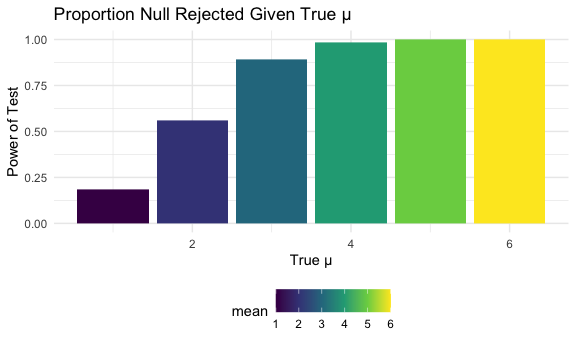
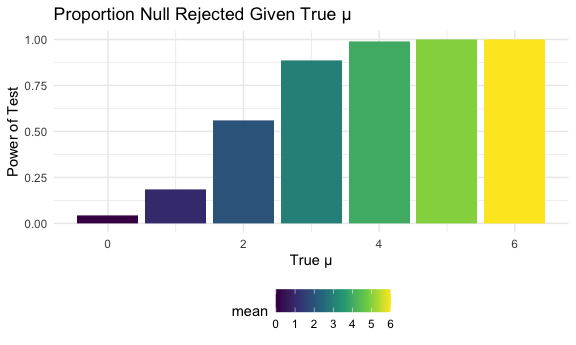
Last minute edits

diff --git a/p8105_hw5_kl3181.md b/p8105_hw5_kl3181.md
@@ -88,8 +88,8 @@ path_df =
     data = map(path, read_csv)) %>% 
   unnest(data) %>%
   separate(path, into = c("folder", "arm"), sep = 9) %>%
-  separate(arm, into = c("arm", "subject_id"), sep = "_") %>% 
-  separate(subject_id, into = c("subject_id", "na"), sep = 2) %>% 
+  separate(arm, into = c("arm", "id"), sep = "_") %>% 
+  separate(id, into = c("id", "na"), sep = 2) %>% 
   select(-folder, -na) %>% 
   pivot_longer(
     week_1:week_8,
@@ -98,35 +98,35 @@ path_df =
     names_prefix = "week_"
   ) %>%
   mutate(
-    subject_id = str_remove(subject_id, "^0+"),
+    id = str_remove(id, "^0+"),
     week = as.numeric(week),
-    subject_id = as.numeric(subject_id)
-    )
+    subject_id = str_c(arm, id, sep = "_")
+    ) %>% 
+  select(-id)
 
 path_df
 ```
 
     ## # A tibble: 160 x 4
-    ##    arm   subject_id  week observation
-    ##    <chr>      <dbl> <dbl>       <dbl>
-    ##  1 con            1     1        0.2 
-    ##  2 con            1     2       -1.31
-    ##  3 con            1     3        0.66
-    ##  4 con            1     4        1.96
-    ##  5 con            1     5        0.23
-    ##  6 con            1     6        1.09
-    ##  7 con            1     7        0.05
-    ##  8 con            1     8        1.94
-    ##  9 con            2     1        1.13
-    ## 10 con            2     2       -0.88
+    ##    arm    week observation subject_id
+    ##    <chr> <dbl>       <dbl> <chr>     
+    ##  1 con       1        0.2  con_1     
+    ##  2 con       2       -1.31 con_1     
+    ##  3 con       3        0.66 con_1     
+    ##  4 con       4        1.96 con_1     
+    ##  5 con       5        0.23 con_1     
+    ##  6 con       6        1.09 con_1     
+    ##  7 con       7        0.05 con_1     
+    ##  8 con       8        1.94 con_1     
+    ##  9 con       1        1.13 con_2     
+    ## 10 con       2       -0.88 con_2     
     ## # … with 150 more rows
 
 Making a spaghetti plot
 
 ``` r
 path_df %>% 
-  group_by(subject_id) %>% 
-  ggplot(aes(x = week, y = observation, color = arm)) +
+  ggplot(aes(x = week, y = observation, color = arm, group = subject_id)) +
   geom_path() +
   labs(
     title = "Observations on each subject over time",
@@ -171,23 +171,23 @@ sim_results %>%
     ## # A tibble: 5,000 x 2
     ##    estimate p.value
     ##       <dbl>   <dbl>
-    ##  1   -0.468  0.687 
-    ##  2    0.805  0.258 
-    ##  3    0.751  0.274 
-    ##  4   -1.45   0.147 
-    ##  5    1.73   0.0613
-    ##  6   -0.768  0.316 
-    ##  7    1.95   0.0159
-    ##  8   -0.710  0.371 
-    ##  9   -0.170  0.870 
-    ## 10   -0.393  0.656 
+    ##  1    0.207   0.837
+    ##  2   -0.720   0.513
+    ##  3    0.579   0.520
+    ##  4    0.322   0.657
+    ##  5    0.223   0.795
+    ##  6   -0.759   0.423
+    ##  7    1.05    0.316
+    ##  8    0.199   0.838
+    ##  9    1.70    0.137
+    ## 10   -1.01    0.269
     ## # … with 4,990 more rows
 
 Repeating for means 1 to 6.
 
 ``` r
 rep_sim_results = 
-  tibble(mean = c(1, 2, 3, 4, 5, 6)) %>% 
+  tibble(mean = c(0, 1, 2, 3, 4, 5, 6)) %>% 
   mutate(
     output_lists = map(.x = mean, ~rerun(5000, t_test(mu = .x))),
     estimate_dfs = map(output_lists, bind_rows)) %>% 
@@ -198,20 +198,20 @@ rep_sim_results %>%
   select(mean, estimate, p.value)
 ```
 
-    ## # A tibble: 30,000 x 3
+    ## # A tibble: 35,000 x 3
     ##     mean estimate p.value
     ##    <dbl>    <dbl>   <dbl>
-    ##  1     1    1.38   0.166 
-    ##  2     1    1.14   0.249 
-    ##  3     1    1.30   0.152 
-    ##  4     1    1.20   0.244 
-    ##  5     1    0.943  0.249 
-    ##  6     1    0.752  0.293 
-    ##  7     1    2.02   0.0138
-    ##  8     1   -0.334  0.702 
-    ##  9     1    0.643  0.464 
-    ## 10     1    1.18   0.293 
-    ## # … with 29,990 more rows
+    ##  1     0   -1.74   0.0588
+    ##  2     0   -0.581  0.500 
+    ##  3     0   -0.548  0.579 
+    ##  4     0   -1.24   0.136 
+    ##  5     0   -1.03   0.189 
+    ##  6     0    0.984  0.396 
+    ##  7     0   -1.02   0.219 
+    ##  8     0   -0.949  0.368 
+    ##  9     0    1.14   0.232 
+    ## 10     0    1.85   0.0383
+    ## # … with 34,990 more rows
 
 Making a plot to show proportion of times the null was rejected on the y
 axis and true value of µ on the x axis.
